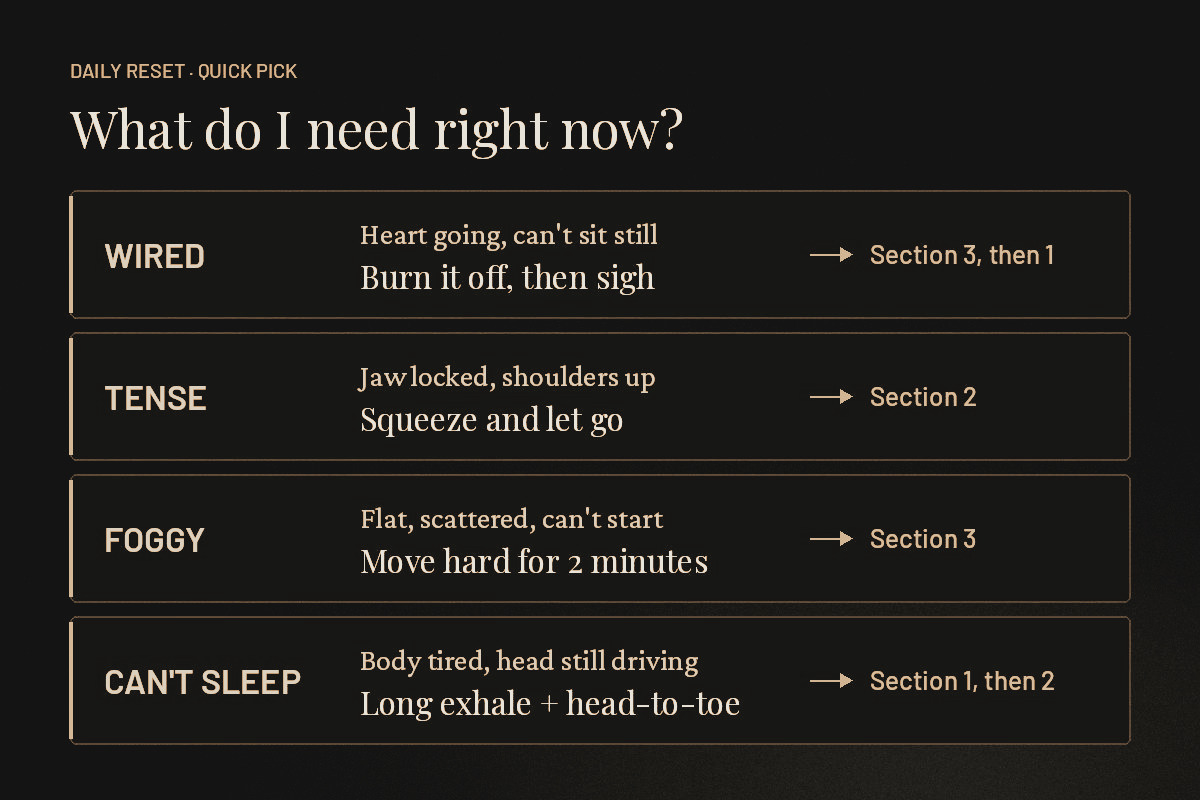
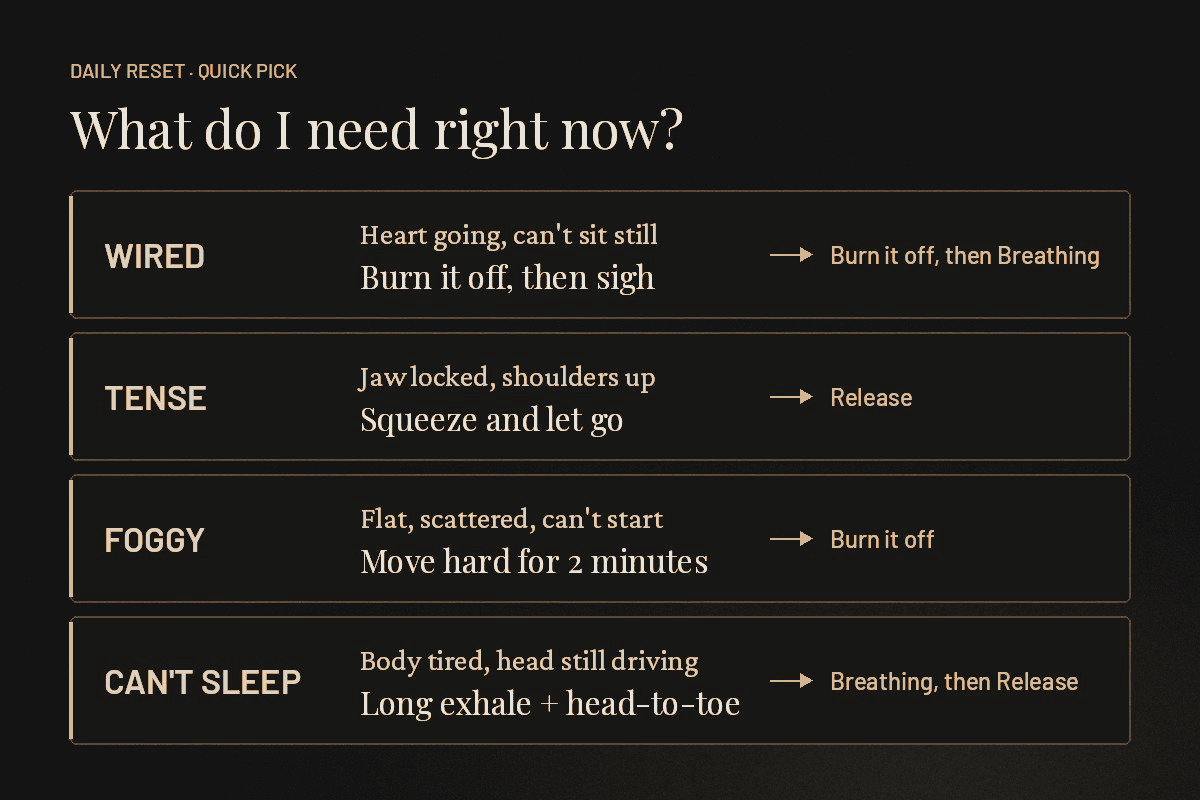
Reset page: clean mobile On this page menu, drop section numbers (#34)

diff --git a/reset-m1qndd58/index.html b/reset-m1qndd58/index.html
@@ -326,19 +326,49 @@
       border-left: 2px solid var(--accent); padding-left: 0.75rem;
     }
 
-    /* On-page jump links */
-    .guide-toc { display: flex; flex-wrap: wrap; gap: 0.4rem; align-items: center; margin-top: 0.5rem; }
+    /* On-page jump links (scoped reset: the site header's bare `nav {}` rule
+       made this sticky, 58px tall, space-between, with a border-bottom) */
+    .guide-toc {
+      position: static; height: auto; padding: 1.5rem 0 0; z-index: auto;
+      display: block; background: none; backdrop-filter: none; -webkit-backdrop-filter: none;
+      border: 0; border-top: 1px solid var(--border); margin-top: 0.5rem;
+    }
     .toc-label {
       font-family: 'Barlow', sans-serif; font-size: 0.62rem; font-weight: 500;
-      letter-spacing: 0.18em; text-transform: uppercase; color: var(--accent2); margin-right: 0.4rem;
+      letter-spacing: 0.18em; text-transform: uppercase; color: var(--accent2);
+      margin-bottom: 1.1rem;
     }
-    .guide-toc a {
-      font-family: 'Barlow', sans-serif; font-size: 0.72rem; font-weight: 500;
-      letter-spacing: 0.08em; text-transform: uppercase; text-decoration: none;
-      color: var(--muted); border: 1px solid var(--border); border-radius: 3px;
-      padding: 0.35rem 0.6rem; transition: color .2s, border-color .2s;
+    .toc-groups {
+      list-style: none;
+      display: grid; grid-template-columns: repeat(4, minmax(0, 1fr)); gap: 1.25rem 1.5rem;
     }
-    .guide-toc a:hover { color: var(--accent3); border-color: var(--accent2); }
+    .toc-sec {
+      display: inline-block;
+      font-family: 'Playfair Display', serif; font-style: italic; font-size: 1.15rem;
+      color: var(--accent3); text-decoration: none; line-height: 1.3;
+      margin-bottom: 0.45rem; transition: color .2s;
+    }
+    .toc-sec:hover { color: var(--text); }
+    .toc-subs { list-style: none; display: flex; flex-direction: column; align-items: flex-start; gap: 0.35rem; }
+    .toc-subs a {
+      display: inline-block;
+      font-family: 'Barlow', sans-serif; font-size: 0.7rem; font-weight: 500;
+      letter-spacing: 0.1em; text-transform: uppercase; text-decoration: none;
+      color: var(--muted); padding: 0.15rem 0; border-bottom: 1px solid transparent;
+      transition: color .2s, border-color .2s;
+    }
+    .toc-subs a:hover { color: var(--accent3); border-bottom-color: var(--accent2); }
+    @media (max-width: 640px) {
+      .toc-groups { grid-template-columns: 1fr; gap: 0; }
+      .toc-group {
+        display: grid; grid-template-columns: 7.5rem 1fr; gap: 0.75rem;
+        align-items: baseline; padding: 0.8rem 0; border-top: 1px solid rgba(58,54,48,0.6);
+      }
+      .toc-group:first-child { border-top: 0; padding-top: 0; }
+      .toc-sec { margin-bottom: 0; font-size: 1.05rem; }
+      .toc-subs { flex-direction: row; flex-wrap: wrap; gap: 0.35rem 1.1rem; }
+      .toc-subs a { padding: 0.3rem 0; }
+    }
 
     /* Steps */
     .steps { counter-reset: s; list-style: none; max-width: 65ch; margin: 0 0 0.5rem; }
@@ -523,24 +553,39 @@
       </div>
       <img class="post-img" src="images/daily-reset-quick-pick.jpg" alt="Chart titled What do I need right now: Wired, burn it off then sigh. Tense, squeeze and let go. Foggy, move hard for two minutes. Can't sleep, long exhale plus head-to-toe." width="1200" height="800" loading="lazy" />
       <nav class="guide-toc" aria-label="On this page">
-        <span class="toc-label">On this page</span>
-        <a href="#breathing">1 · Breathing</a>
-        <a href="#the-sigh">The sigh</a>
-        <a href="#longer-out">Longer out</a>
-        <a href="#box">Box</a>
-        <a href="#release">2 · Release</a>
-        <a href="#squeeze-and-release">Head to toe</a>
-        <a href="#stretch-set">Stretch set</a>
-        <a href="#burn-it-off">3 · Burn it off</a>
-        <a href="#protocols">Protocols</a>
-        <a href="#safety">Safety</a>
-        <a href="#a-day">A day of it</a>
+        <p class="toc-label">On this page</p>
+        <ul class="toc-groups">
+          <li class="toc-group">
+            <a class="toc-sec" href="#breathing">Breathing</a>
+            <ul class="toc-subs">
+              <li><a href="#the-sigh">The sigh</a></li>
+              <li><a href="#longer-out">Longer out</a></li>
+              <li><a href="#box">Box</a></li>
+            </ul>
+          </li>
+          <li class="toc-group">
+            <a class="toc-sec" href="#release">Release</a>
+            <ul class="toc-subs">
+              <li><a href="#squeeze-and-release">Head to toe</a></li>
+              <li><a href="#stretch-set">Stretch set</a></li>
+            </ul>
+          </li>
+          <li class="toc-group">
+            <a class="toc-sec" href="#burn-it-off">Burn it off</a>
+            <ul class="toc-subs">
+              <li><a href="#protocols">Protocols</a></li>
+              <li><a href="#safety">Safety</a></li>
+            </ul>
+          </li>
+          <li class="toc-group">
+            <a class="toc-sec" href="#a-day">A day of it</a>
+          </li>
+        </ul>
       </nav>
     </section>
 
     <!-- ============ 1. BREATHING ============ -->
     <section class="guide-block guide-section" id="breathing" aria-labelledby="breathing-title">
-      <div class="post-meta"><span class="post-date">Section 1</span><a class="post-anchor" href="#breathing" aria-label="Link to this section">#</a></div>
       <h2 class="post-title" id="breathing-title"><a href="#breathing">Breathing. <em>The fastest brake you've got.</em></a></h2>
       <div class="post-body">
         <p>You can't think your way out of a racing heart. You can breathe your way down from one. The breath is the one part of the nervous system you can grab with both hands.</p>
@@ -615,7 +660,6 @@
 
     <!-- ============ 2. RELEASE ============ -->
     <section class="guide-block guide-section" id="release" aria-labelledby="release-title">
-      <div class="post-meta"><span class="post-date">Section 2</span><a class="post-anchor" href="#release" aria-label="Link to this section">#</a></div>
       <h2 class="post-title" id="release-title"><a href="#release">Squeeze, then <em>let it go.</em></a></h2>
       <img class="post-img" src="images/release-vs-stretch.jpg" alt="Illustrative line graph of muscle tension over time: stretching alone dips slightly and creeps back to baseline, while a hard squeeze followed by a release drops tension well below where it started" width="1200" height="800" loading="lazy" />
       <div class="post-body">
@@ -680,7 +724,6 @@
 
     <!-- ============ 3. BURN IT OFF ============ -->
     <section class="guide-block guide-section" id="burn-it-off" aria-labelledby="burn-title">
-      <div class="post-meta"><span class="post-date">Section 3</span><a class="post-anchor" href="#burn-it-off" aria-label="Link to this section">#</a></div>
       <h2 class="post-title" id="burn-title"><a href="#burn-it-off">Burn it off. <em>Don't argue with it.</em></a></h2>
       <img class="post-img" src="images/burn-it-off-intervals.jpg" alt="Six tall pale-copper bars separated by short low gaps, labeled six efforts of ten to twenty seconds with sixty to ninety seconds of rest, against a dark field of pale sparks" width="1200" height="800" loading="lazy" />
       <div class="post-body">
@@ -757,7 +800,6 @@
 
     <!-- ============ A DAY OF IT ============ -->
     <section class="guide-block guide-section" id="a-day" aria-labelledby="day-title">
-      <div class="post-meta"><span class="post-date">Putting it together</span><a class="post-anchor" href="#a-day" aria-label="Link to this section">#</a></div>
       <h2 class="post-title" id="day-title"><a href="#a-day">A day of it</a></h2>
       <div class="post-body">
         <p>Not a schedule. Just the spots where these fit. Use what you need and skip the rest.</p>
